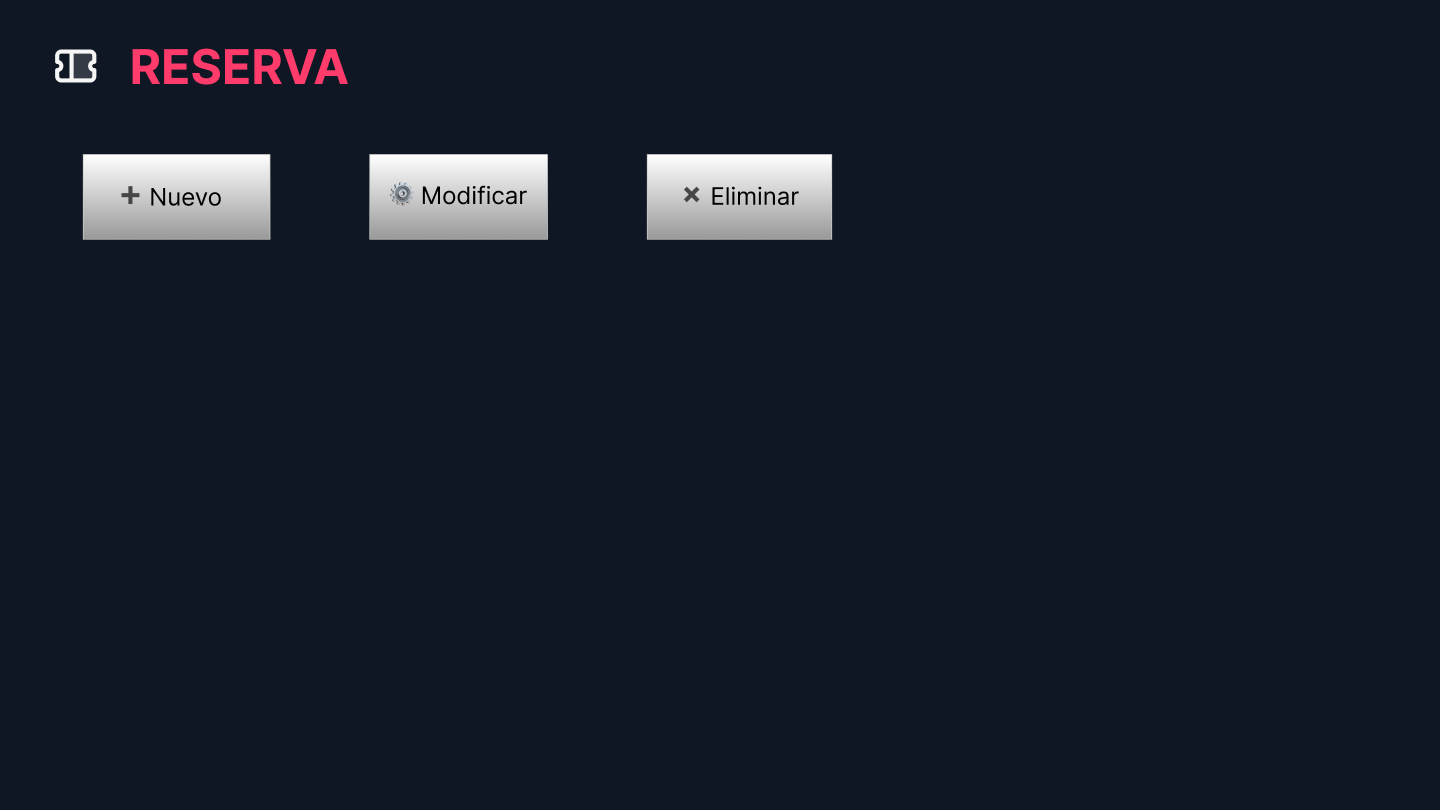
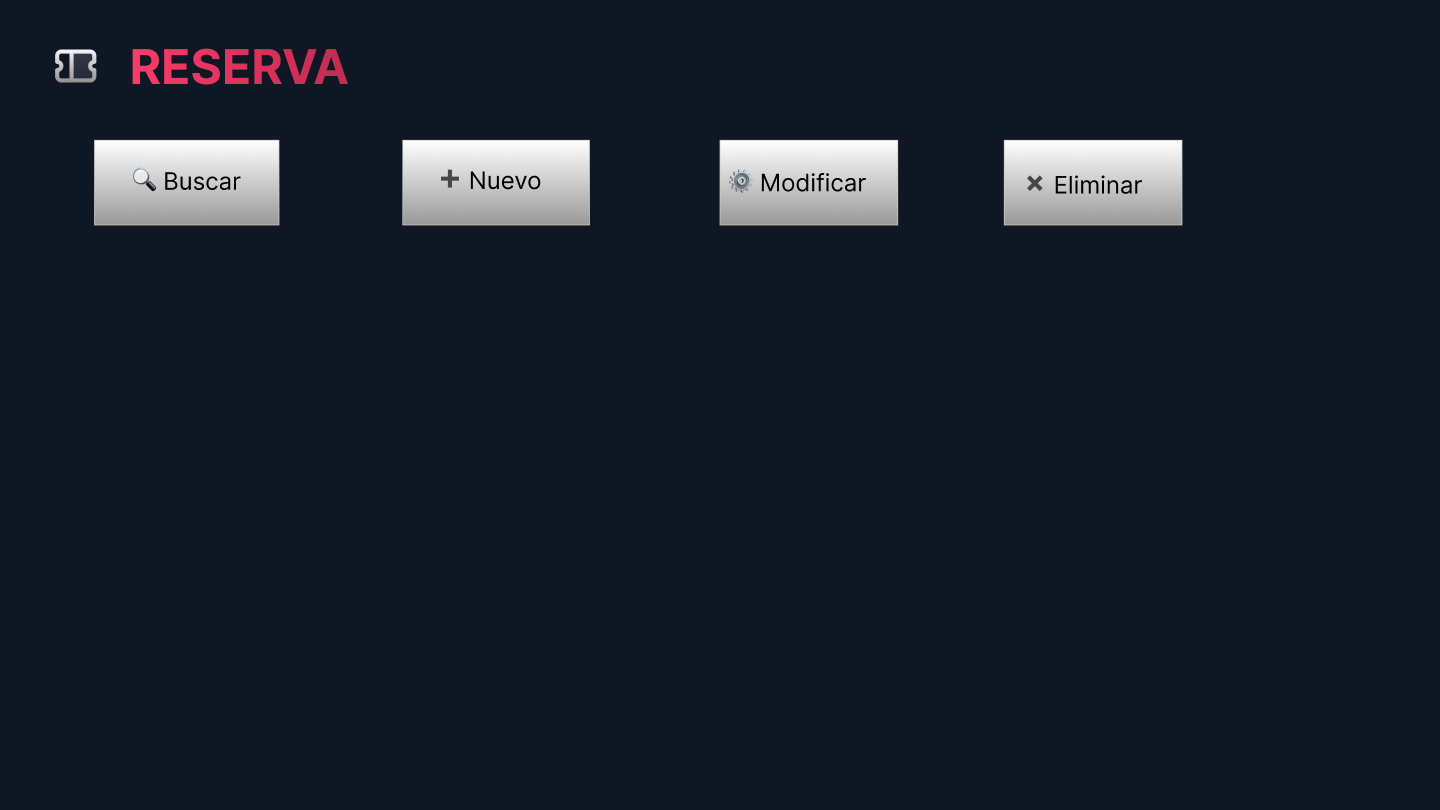
Meestoymuriendo

diff --git a/src/main/java/Interfaz/Buscar.java b/src/main/java/Interfaz/Buscar.java
@@ -1,0 +1,135 @@
+
+package Interfaz;
+
+import java.awt.Color;
+import javax.swing.*;
+import java.awt.*;
+
+public class Buscar extends javax.swing.JFrame {
+    
+    private static final java.util.logging.Logger logger = java.util.logging.Logger.getLogger(Buscar.class.getName());
+
+    /**
+     * Creates new form Buscar
+     */
+    public Buscar() {
+     setUndecorated(true);
+
+        initComponents();
+        setLocationRelativeTo(null);
+    }
+
+    /**
+     * This method is called from within the constructor to initialize the form.
+     * WARNING: Do NOT modify this code. The content of this method is always
+     * regenerated by the Form Editor.
+     */
+    @SuppressWarnings("unchecked")
+    // <editor-fold defaultstate="collapsed" desc="Generated Code">//GEN-BEGIN:initComponents
+    private void initComponents() {
+
+        exitBtn = new javax.swing.JPanel();
+        exitTxt = new javax.swing.JLabel();
+        jLabel1 = new javax.swing.JLabel();
+        jButton1 = new javax.swing.JButton();
+
+        setDefaultCloseOperation(javax.swing.WindowConstants.EXIT_ON_CLOSE);
+        getContentPane().setLayout(new org.netbeans.lib.awtextra.AbsoluteLayout());
+
+        exitBtn.setBackground(new java.awt.Color(255, 255, 255));
+        exitBtn.setBorder(javax.swing.BorderFactory.createBevelBorder(javax.swing.border.BevelBorder.RAISED));
+        exitBtn.setDoubleBuffered(false);
+        exitBtn.setEnabled(false);
+        exitBtn.setFocusable(false);
+        exitBtn.setOpaque(false);
+
+        exitTxt.setFont(new java.awt.Font("Roboto Light", 0, 24)); // NOI18N
+        exitTxt.setForeground(new java.awt.Color(255, 0, 0));
+        exitTxt.setHorizontalAlignment(javax.swing.SwingConstants.CENTER);
+        exitTxt.setText("X");
+        exitTxt.setBorder(new javax.swing.border.MatteBorder(null));
+        exitTxt.setCursor(new java.awt.Cursor(java.awt.Cursor.HAND_CURSOR));
+        exitTxt.setPreferredSize(new java.awt.Dimension(40, 40));
+        exitTxt.addMouseListener(new java.awt.event.MouseAdapter() {
+            public void mouseClicked(java.awt.event.MouseEvent evt) {
+                exitTxtMouseClicked(evt);
+            }
+            public void mouseEntered(java.awt.event.MouseEvent evt) {
+                exitTxtMouseEntered(evt);
+            }
+            public void mouseExited(java.awt.event.MouseEvent evt) {
+                exitTxtMouseExited(evt);
+            }
+        });
+
+        javax.swing.GroupLayout exitBtnLayout = new javax.swing.GroupLayout(exitBtn);
+        exitBtn.setLayout(exitBtnLayout);
+        exitBtnLayout.setHorizontalGroup(
+            exitBtnLayout.createParallelGroup(javax.swing.GroupLayout.Alignment.LEADING)
+            .addComponent(exitTxt, javax.swing.GroupLayout.Alignment.TRAILING, javax.swing.GroupLayout.DEFAULT_SIZE, 26, Short.MAX_VALUE)
+        );
+        exitBtnLayout.setVerticalGroup(
+            exitBtnLayout.createParallelGroup(javax.swing.GroupLayout.Alignment.LEADING)
+            .addComponent(exitTxt, javax.swing.GroupLayout.PREFERRED_SIZE, 26, Short.MAX_VALUE)
+        );
+
+        getContentPane().add(exitBtn, new org.netbeans.lib.awtextra.AbsoluteConstraints(1400, 10, 30, 30));
+
+        jLabel1.setIcon(new javax.swing.ImageIcon("C:\\Users\\USUARIO\\Documents\\NetBeansProjects\\Hotel\\src\\main\\java\\Interfaz\\Sources\\Buscar.png")); // NOI18N
+        getContentPane().add(jLabel1, new org.netbeans.lib.awtextra.AbsoluteConstraints(0, 0, 1440, 820));
+
+        jButton1.setText("jButton1");
+        getContentPane().add(jButton1, new org.netbeans.lib.awtextra.AbsoluteConstraints(210, 150, 190, 90));
+
+        pack();
+    }// </editor-fold>//GEN-END:initComponents
+
+    private void exitTxtMouseClicked(java.awt.event.MouseEvent evt) {//GEN-FIRST:event_exitTxtMouseClicked
+        this.dispose();
+        Reservas reserva = new Reservas();
+        reserva.setVisible(true);
+        reserva.setLocationRelativeTo(null);
+    }//GEN-LAST:event_exitTxtMouseClicked
+
+    private void exitTxtMouseEntered(java.awt.event.MouseEvent evt) {//GEN-FIRST:event_exitTxtMouseEntered
+        exitBtn.setBackground(Color.red);
+        exitTxt.setForeground(Color.white);
+    }//GEN-LAST:event_exitTxtMouseEntered
+
+    private void exitTxtMouseExited(java.awt.event.MouseEvent evt) {//GEN-FIRST:event_exitTxtMouseExited
+        exitBtn.setBackground(Color.white);
+        exitTxt.setForeground(Color.black);
+    }//GEN-LAST:event_exitTxtMouseExited
+
+    /**
+     * @param args the command line arguments
+     */
+    public static void main(String args[]) {
+        /* Set the Nimbus look and feel */
+        //<editor-fold defaultstate="collapsed" desc=" Look and feel setting code (optional) ">
+        /* If Nimbus (introduced in Java SE 6) is not available, stay with the default look and feel.
+         * For details see http://download.oracle.com/javase/tutorial/uiswing/lookandfeel/plaf.html 
+         */
+        try {
+            for (javax.swing.UIManager.LookAndFeelInfo info : javax.swing.UIManager.getInstalledLookAndFeels()) {
+                if ("Nimbus".equals(info.getName())) {
+                    javax.swing.UIManager.setLookAndFeel(info.getClassName());
+                    break;
+                }
+            }
+        } catch (ReflectiveOperationException | javax.swing.UnsupportedLookAndFeelException ex) {
+            logger.log(java.util.logging.Level.SEVERE, null, ex);
+        }
+        //</editor-fold>
+
+        /* Create and display the form */
+        java.awt.EventQueue.invokeLater(() -> new Buscar().setVisible(true));
+    }
+
+    // Variables declaration - do not modify//GEN-BEGIN:variables
+    private javax.swing.JPanel exitBtn;
+    private javax.swing.JLabel exitTxt;
+    private javax.swing.JButton jButton1;
+    private javax.swing.JLabel jLabel1;
+    // End of variables declaration//GEN-END:variables
+}
